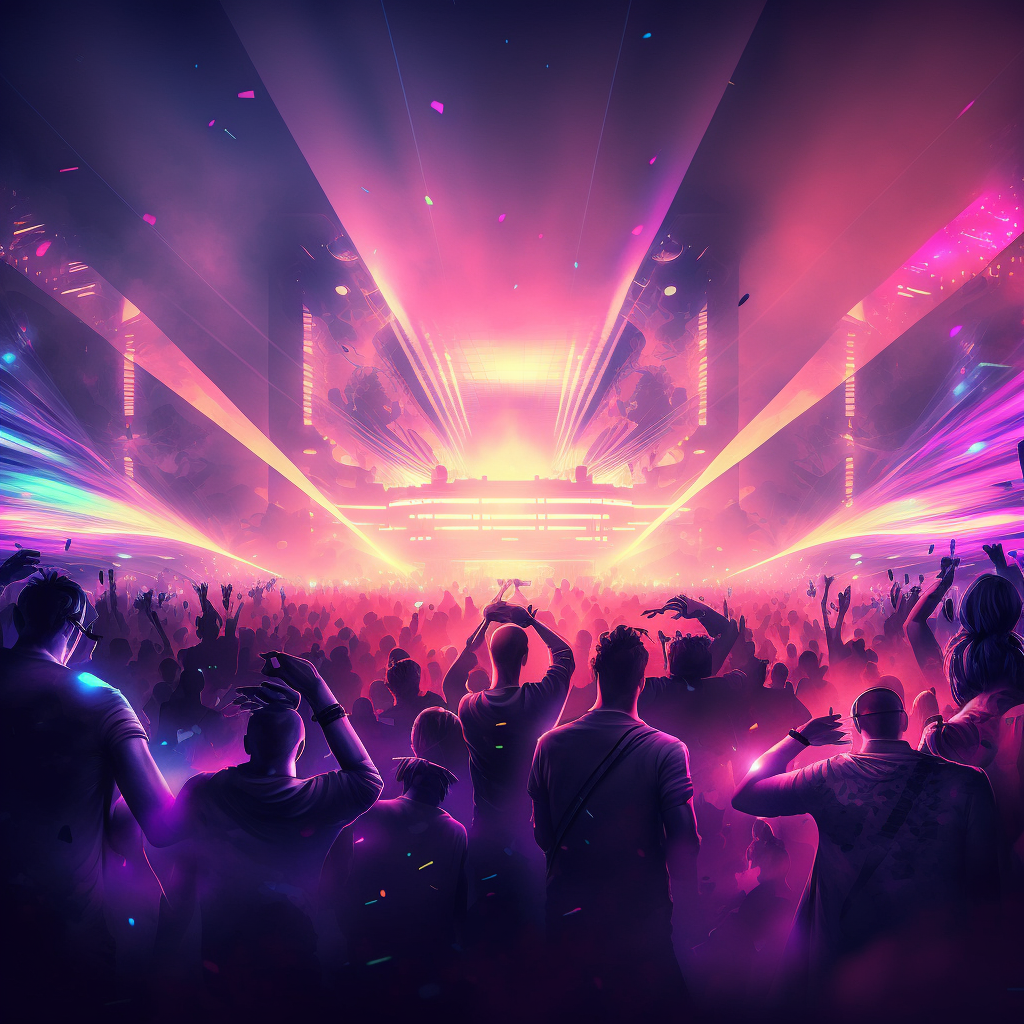
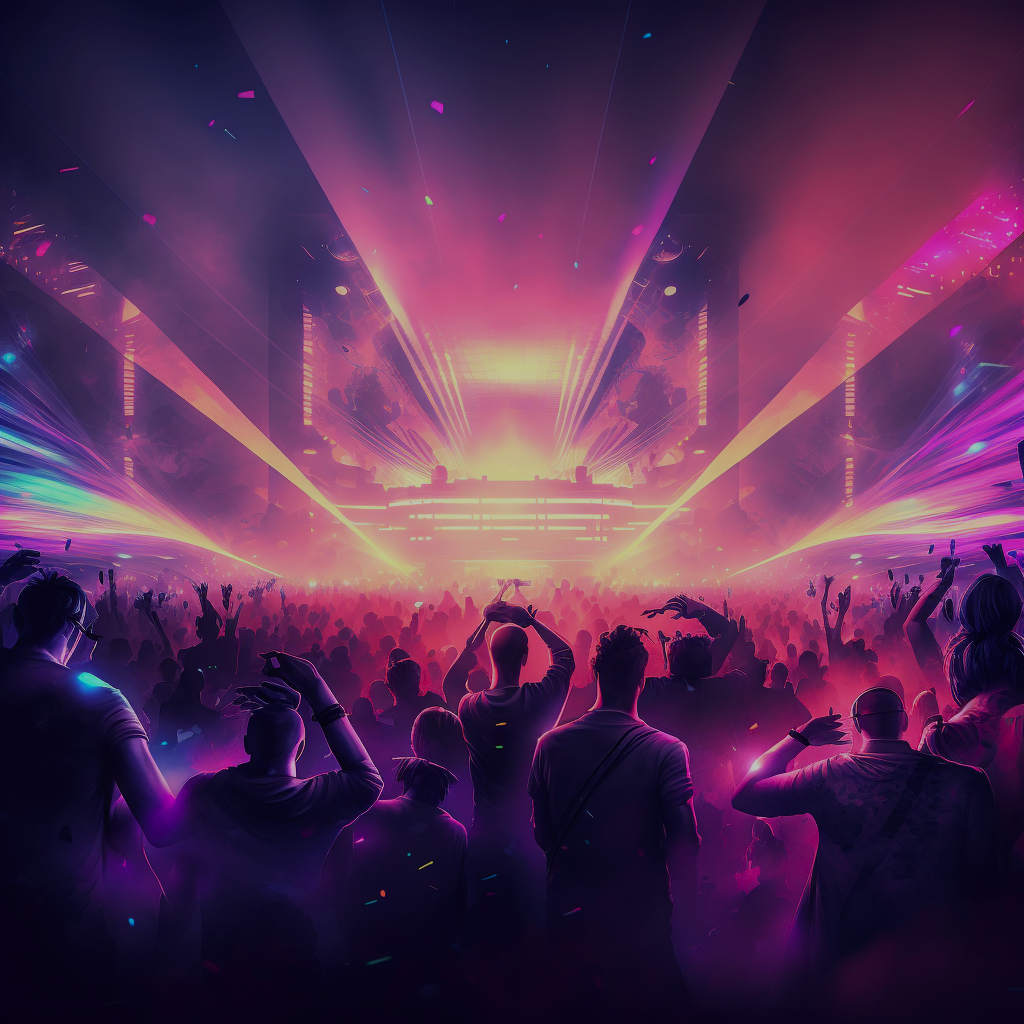
fix: wallpaper brightness

diff --git a/app/components/Features.tsx b/app/components/Features.tsx
@@ -27,9 +27,9 @@ function Features() {
                         MINT
                     </div>
                     <div>
-                        If it&aposs a sound, it belongs on Soundwork. Big or
-                        small, mint your favourite sound creations on the
-                        platform to be used and enjoyed by others.
+                        If it's a sound, it belongs on Soundwork. Big or small,
+                        mint your favourite sound creations on the platform to
+                        be used and enjoyed by others.
                     </div>
                 </div>
                 <div className="custom-border1 rounded-2xl w-[20.875rem] h-[20.125rem] p-5">

diff --git a/app/globals.css b/app/globals.css
@@ -231,7 +231,7 @@ section.home::before {
 } */
 
 section.home {
-    background-image: url('../public/nightmare-sauce-night-time-rave-big-crowd-midst-of-dubstep-lase-200359-cd-94-e-44326973259-e-8-d-4-b-8-d-7022.png');
+    background: url('../public/nightmare-sauce-night-time-rave-big-crowd-midst-of-dubstep-lase-200359-cd-94-e-44326973259-e-8-d-4-b-8-d-7022.png'),50%;
     background-size: cover;
     background-position: center;
     background-repeat: no-repeat;

diff --git a/app/components/HowItWorks.tsx b/app/components/HowItWorks.tsx
@@ -6,7 +6,7 @@ function HowItWorks() {
             id="how-it-works"
             className="px-[6.97rem] pt-[8.13rem] space-y-[2.62rem]"
         >
-            <div className="text-[4rem] leading-[4.62rem]">
+            <div className="text-[4rem] leading-[4.62rem] font-[700]">
                 <div>How do we</div>
                 <div>Soundwork?</div>
             </div>
